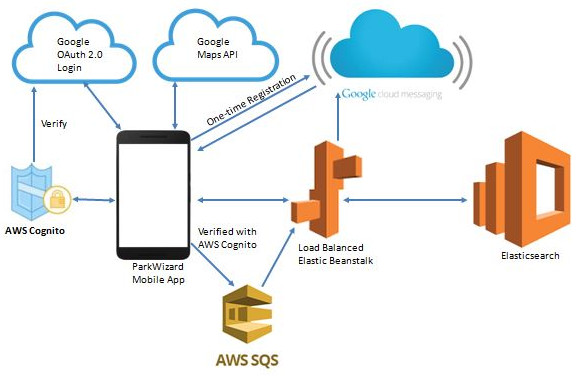
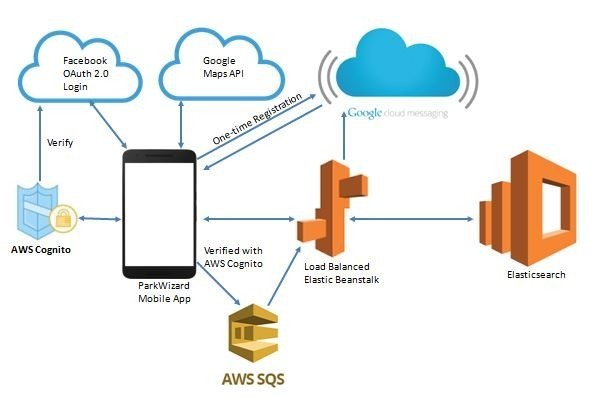
replace architecture image

Changed region(s): [[0.0, 0.0, 0.9897, 0.9947]]

diff --git a/poster/main.tex b/poster/main.tex
@@ -134,7 +134,7 @@ Various apps have been developed in the past but with an intention of providing 
 
 %Architecture Picture
 \begin{figure}
-\includegraphics[width=50cm,height=29cm]{architecture_2.JPG}
+\includegraphics[width=47cm,height=31cm]{architecture_2.JPG}
 \caption{Architecture}
 \end{figure}
 
